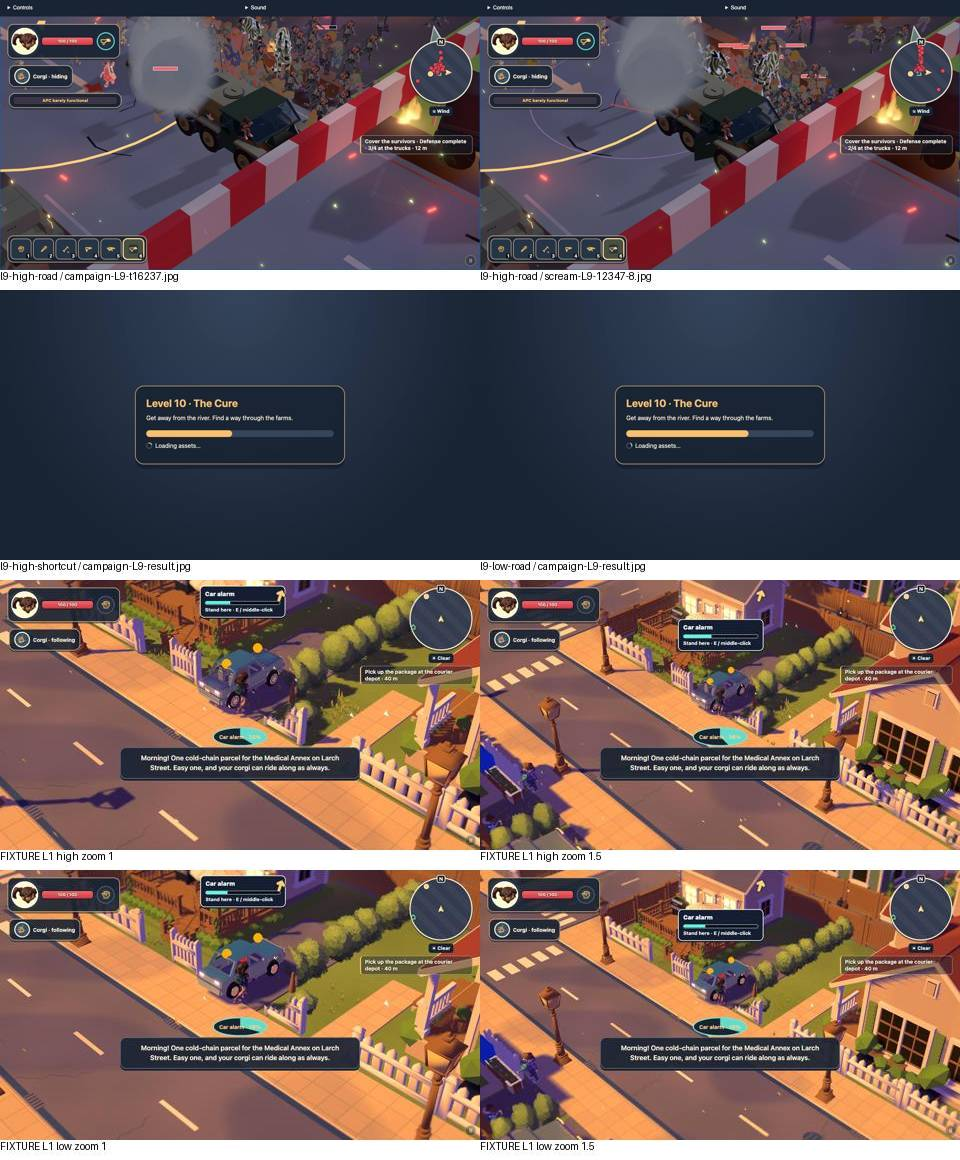
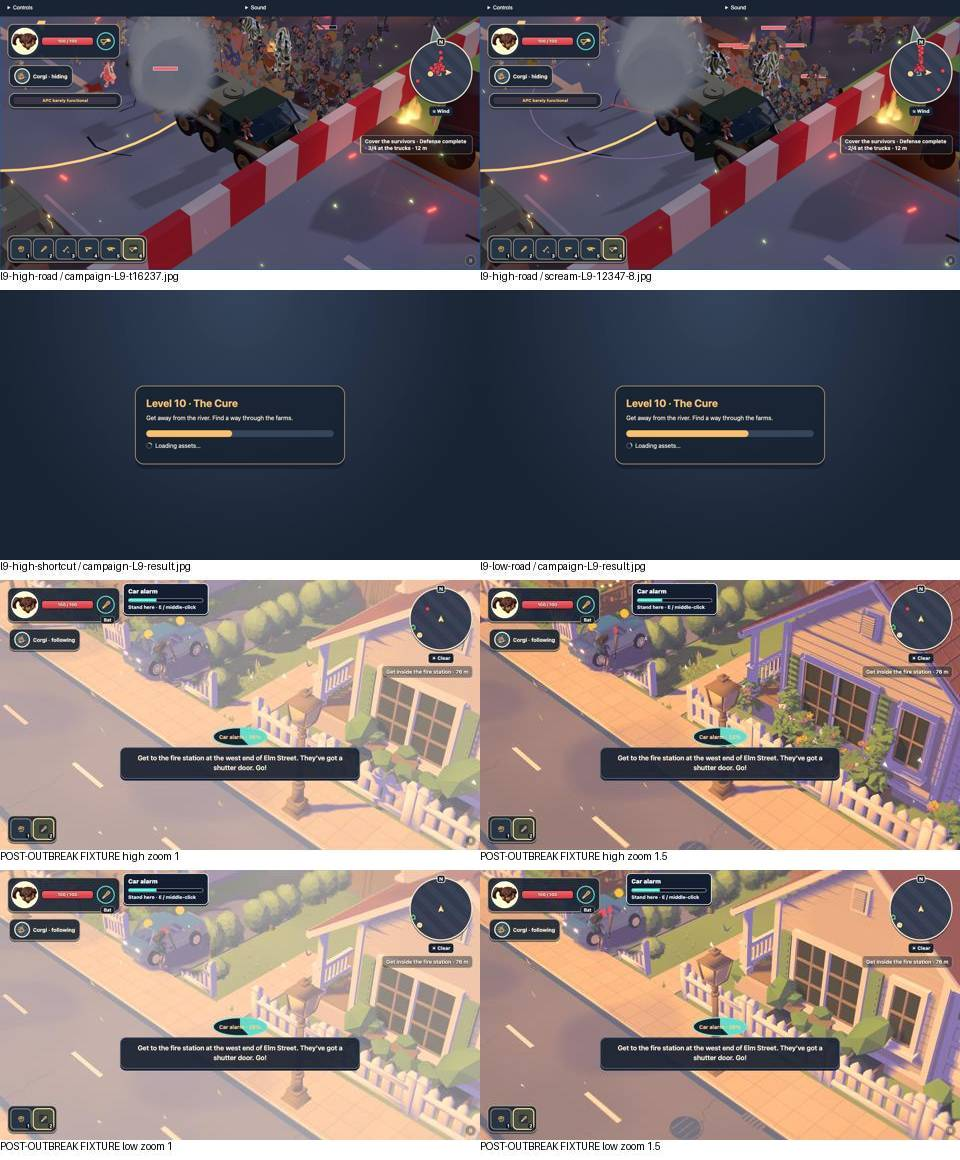
docs: verify alarm layout at actual post-outbreak checkpoint

diff --git a/docs/reports/batch-107-real-input/README.md b/docs/reports/batch-107-real-input/README.md
@@ -64,3 +64,7 @@ This extra repeat progressed from defense-complete 0/4 at tick 10414 to 3/4 at 1
 ## Hatch combat audit
 
 An additional normal-combat HIGH shortcut WebGPU run used existing `PLAYTEST_COMBAT_AUDIT=1` and finished without skips in 339 s. All 23 recorded courier shotgun hits correlate with a nearest observation (within 70 ticks) showing APC #667 active. At ticks 5810/5840, shots dealt 192/107 damage to Alpha #877, whose HP fell from 107 to 0; the nearest tick-5821 tracker says “Engine stalled — hold the hatch … shoot boarders … cannot leave APC.” Seated hatch fire therefore damages/downs nearby infected in this sample. The audit does not separately establish attached-boarder identity. Summary: `test-results/b107/hatch-audit/hit-summary.json`; raw logs remain outside git. This repeat also showed a later 3/4 post-defense delay, reinforcing the intermittent evacuation finding.
+
+## Actual post-outbreak alarm matrix
+
+Beginning L1 before loading its actual `bat` checkpoint produced the correct post-outbreak mission/HUD state. All HIGH/LOW × zoom 1/1.5 captures were reviewed: `test-results/b107/prompt-fixture/postblast-alarm-{high,low}-z{1,1.5}.jpg`, with ticks in `postblast-results.json`. Panels clear vitals and other HUD in all four sampled views; HIGH/zoom 1 places the panel beside vitals with a visible gap. The prior P3 arrow overlap is limited to an artificially armed pre-outbreak fixture and was **not reproduced** here; it is not a confirmed post-outbreak product defect. Setup used the genuine checkpoint plus fixture positioning and real WASD final approach, not uninterrupted campaign navigation. The contact sheet now shows this stage-accurate matrix.
